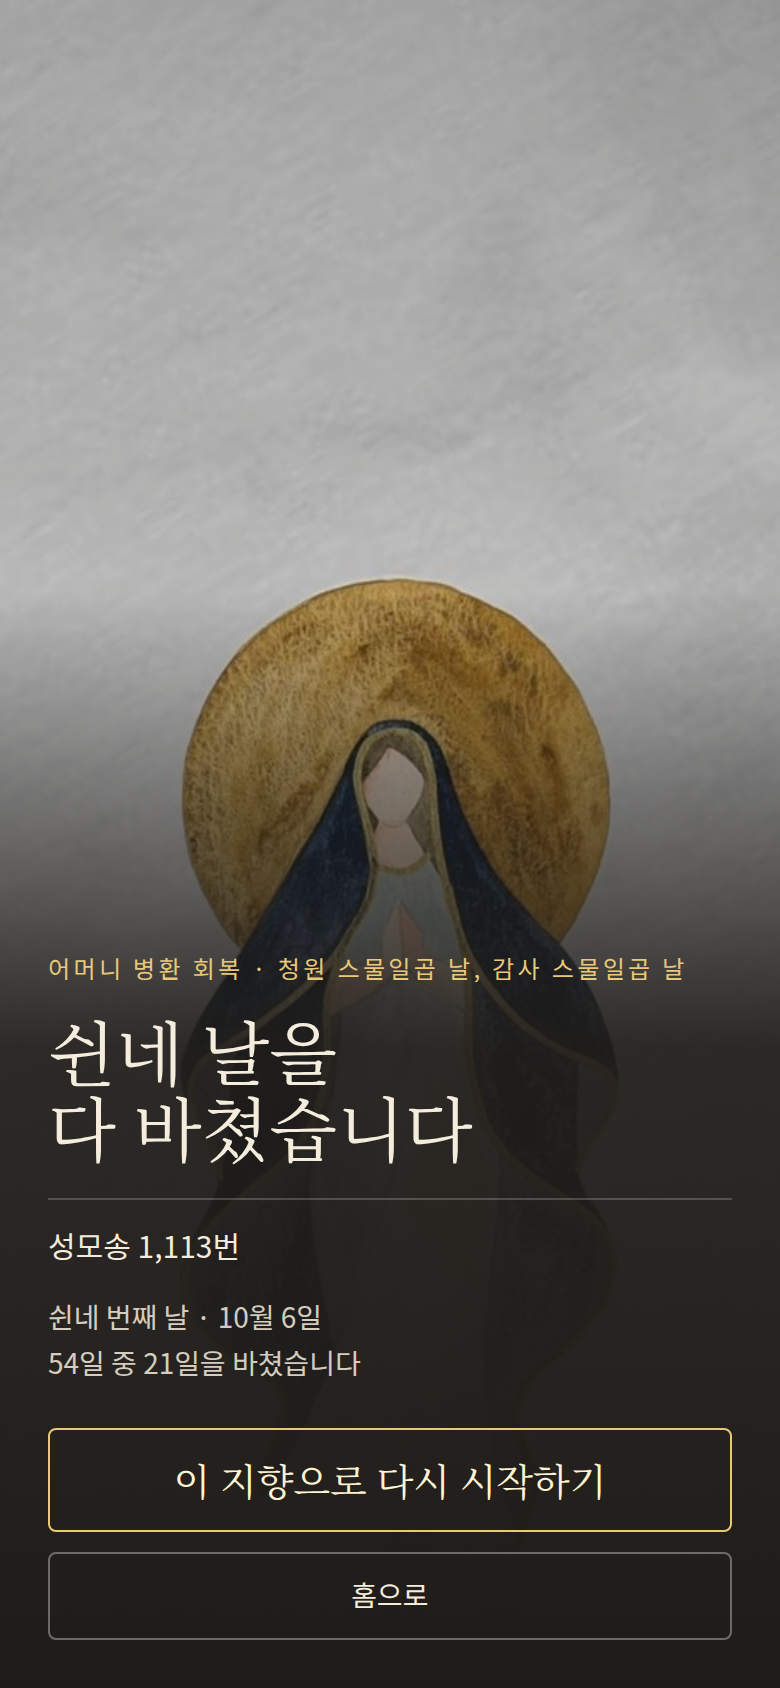
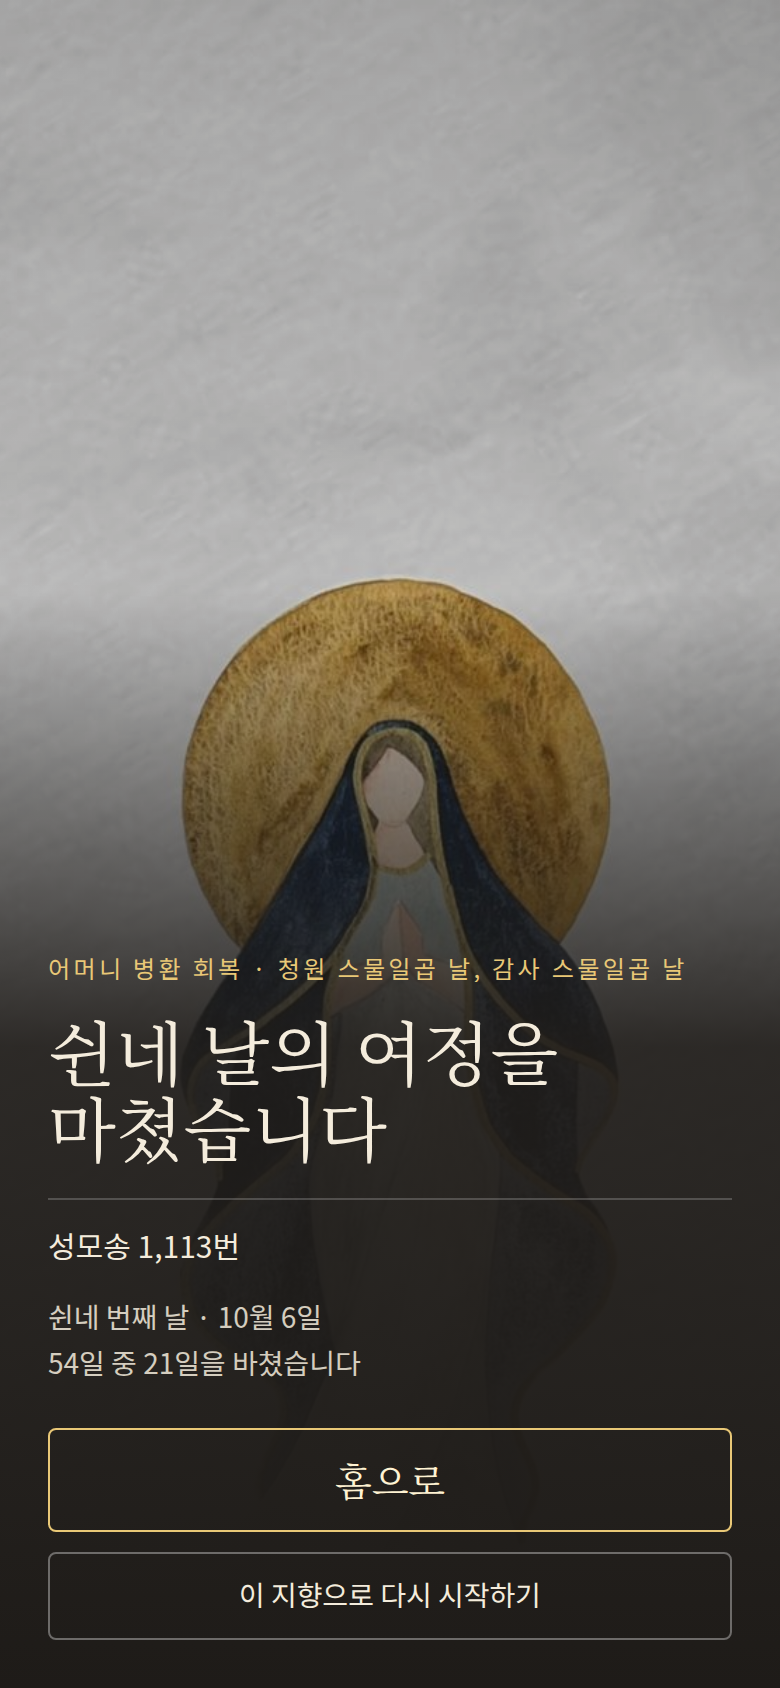
fix(w3): 여정 완주 화면이 사실과 어긋나던 두 자리를 바로잡는다
KimDesigner 검수가 잡은 것 둘이다.

1. 큰 제목이 사실이 아니었다. `쉰네 날을 다 바쳤습니다` 는 하루라도
   거른 사람에게 참이 아닌데, FR-35 가 못 바친 날을 뒤로 밀지 않기로
   했으므로 거르는 사람이 오히려 보통이다. 실제로 한 화면에 그 문장과
   `54일 중 21일을 바쳤습니다` 가 나란히 떴다.

   뿌리는 구현이 아니라 요구사항 문서에 있었다 — 06-screen-spec 화면
   C′ 의 표가 머리 문구를 `{N}일을 다 바쳤습니다` 로 정해 놓고, 바로
   아래 줄에서 바친 날 수를 `54일 중 51일` 처럼 적으라고 정한다. 같은
   절의 목적 한 줄("성취 축하가 아니라 마침을 확인한다")을 근거로
   `마쳤습니다` 로 고쳤다. 원문을 지우지 않고 개정 이력을 덧붙였다.

2. 단추 서열이 명세와 반대였다. `다시 시작하기` 가 주 단추가 되고
   명세가 정한 `홈으로` 가 조용한 단추로 내려가 있었으며, 그 사실이
   파일 머리글의 표에 적혀 있지 않았다. 명세대로 되돌렸다 — 화면 C′
   의 요소 표는 이탈을 `돌아가기 — 홈으로` 하나로 정했고, 같은 절의
   "명세 밖" 이 "다음 기도 예약" 을 범위 밖으로 못 박았다.

손으로 넣었던 줄바꿈도 뺐다. 글자 크기를 키우면 자동 줄바꿈과 겹쳐
어색하게 갈리는 자리였고, 이 화면의 제목은 이미 한국어 줄바꿈 규칙을
갖고 있다.

e2e 가 옛 문구를 붙들고 있어 함께 고쳤다. 57개 전부 통과한다.

Claude-Session: https://claude.ai/code/session_014qdPzhHB5fbdkiJDXGXtXW

diff --git a/app/all-done.tsx b/app/all-done.tsx
@@ -21,17 +21,35 @@
  * `app/day-done.tsx` 와 같은 토큰(`worldDoneType` · `onScrim`)에서 가져오고, 담는 내용만
  * 하루가 아니라 여정 전체의 것으로 바꿨다. 새 값을 지어내지 않은 것이 요점이다.
  *
- * ── 시안(하루 완주)과 다르게 한 자리 넷 ──────────────────────────────────────
+ * ── 시안(하루 완주)과 다르게 한 자리 여섯 ────────────────────────────────────
  *
- * 1. **큰 제목이 `쉰네 날을 다 바쳤습니다` 다.** 하루 완주의 제목(`오늘의 묵주기도를
+ * 1. **큰 제목이 `쉰네 날의 여정을 마쳤습니다` 다.** 하루 완주의 제목(`오늘의 묵주기도를
  *    마쳤습니다`)은 하루를 말하는 글이라, 여정의 끝에 그대로 쓰면 무엇이 끝났는지가
  *    사라진다. 날의 수를 우리말 셈으로 적는 것은 옛 화면에서 그대로 가져왔다.
+ *
+ *    **처음에는 `쉰네 날을 다 바쳤습니다` 였다. 고친 이유를 적어 둔다 (2026-09-18).**
+ *    그 문장은 06-screen-spec 화면 C′ 가 정한 문구(`{N}일을 다 바쳤습니다`)를 그대로
+ *    옮긴 것이었는데, **요구사항 문서 자신이 모순이었다** — 같은 표가 바로 아래 줄에서
+ *    바친 날 수를 `54일 중 51일` 처럼 적으라며 "빈 날을 숨기지 않고 벌하지도 않는다"고
+ *    정한다. 그래서 한 화면에 `쉰네 날을 다 바쳤습니다` 와 `54일 중 21일을 바쳤습니다`
+ *    가 나란히 떴다. 하루라도 거른 사람에게 제목이 사실이 아닌데, FR-35 가 못 바친 날을
+ *    뒤로 밀지 않기로 했으므로 **거르는 사람이 오히려 보통이다.** 같은 절의 목적 한 줄이
+ *    답을 갖고 있다 — "성취 축하가 아니라 **마침**을 확인한다." `마쳤습니다` 는 다 바친
+ *    사람에게도 참이고 거른 사람에게도 참이며, 몇 날을 바쳤는지는 아래 줄이 이미 말한다.
+ *    요구사항 문서는 원문을 지우지 않고 개정 이력을 덧붙여 고쳤다.
+ *
  * 2. **`이 성화 고정하기` 단추가 없다.** 그 단추는 "오늘 본 그림을 앞으로도 보겠다"는 뜻인데,
  *    이 화면 다음에 오는 것은 오늘이 아니라 **다음 여정**이다. 대신 그 자리에 옛 화면의
- *    `이 지향으로 다시 시작하기` 를 둔다 — 여정이 끝난 사람이 가장 자주 하는 다음 일이다.
+ *    `이 지향으로 다시 시작하기` 를 두었다.
  * 3. **`이 지향으로 다시 시작하기` 가 여정 화면으로 간다.** 그전에는 옛 `새 기도` 화면으로
  *    갔는데, W3 이 여정을 만드는 자리를 여정 화면 하나로 모았다(`docs/plan/w3-work-order.md`
  *    §1-2). 바람은 주소에 실어 보내 그 화면의 입력칸에 미리 적혀 있게 한다.
+ * 3-2. **그 단추는 조용한 둘째 자리에 있고, 주 단추는 `홈으로` 다.** 한때 서열이 반대였다 —
+ *    `다시 시작하기` 가 주 단추(52px · 강조색 테)가 되고 `홈으로` 가 조용한 단추로
+ *    내려가 있었고, **그 사실이 이 표에 적혀 있지 않았다**(2026-09-18 KimDesigner 검수가
+ *    잡았다). 명세대로 되돌렸다 — 06-screen-spec 화면 C′ 의 요소 표는 이 화면의 이탈을
+ *    `돌아가기 — 홈으로` 하나로 정했고, 같은 절의 "명세 밖"이 "다음 기도 예약"을 범위
+ *    밖으로 못 박았으며, 하루 완주 화면도 `홈으로` 가 주 단추다.
  * 4. **못 바친 날을 뒤로 밀어 채웠다는 말을 하지 않는다.** v5 가 `못 바친 날은 뒤로 밀려
  *    채워졌습니다` 라고 적었는데 이 앱은 그렇게 하지 않는다 — FR-35 가 "하루를 건너뛰어도
  *    며칠째는 흘러가고 그날 칸은 비어 있는 채로 남는다"로 정했기 때문이다. 없는 일을 말하는
@@ -143,7 +161,7 @@ export default function AllDoneScreen() {
         </Text>
 
         <Text style={[styles.title, titleSize]} testID="all-done-title">
-          {nativeCountKo(length)} 날을{'\n'}다 바쳤습니다
+          {nativeCountKo(length)} 날의 여정을 마쳤습니다
         </Text>
 
         {/*
@@ -173,8 +191,23 @@ export default function AllDoneScreen() {
         </View>
 
         <View style={styles.buttons}>
+          {/*
+            `홈으로` 가 주 단추다. 06-screen-spec 화면 C′ 의 요소 표는 이 화면의 이탈을
+            `돌아가기 — 홈으로` 하나로 정해 두었고, 하루 완주 화면(`app/day-done.tsx`)도
+            같은 서열이다. 한때 `다시 시작하기` 가 주 단추였는데 명세대로 되돌렸다 —
+            여정을 마친 자리에서 가장 강한 말이 "다음 여정을 시작하라"가 되면, 이 화면의
+            목적("성취 축하가 아니라 마침을 조용히 확인한다")과 어긋난다.
+          */}
           <Pressable
             style={styles.primaryButton}
+            onPress={leaveToHome}
+            accessibilityRole="button"
+            testID="all-done-home"
+          >
+            <Text style={styles.primaryLabel}>{strings.toHome}</Text>
+          </Pressable>
+          <Pressable
+            style={styles.quietButton}
             /*
               여정을 만드는 자리가 W3 에서 여정 화면 하나로 모였으므로 그리로 간다
               (머리 3번). 바람을 주소에 실어 보내면 그 화면의 입력칸에 미리 적혀 있다.
@@ -187,15 +220,7 @@ export default function AllDoneScreen() {
             accessibilityRole="button"
             testID="all-done-again"
           >
-            <Text style={styles.primaryLabel}>이 지향으로 다시 시작하기</Text>
-          </Pressable>
-          <Pressable
-            style={styles.quietButton}
-            onPress={leaveToHome}
-            accessibilityRole="button"
-            testID="all-done-home"
-          >
-            <Text style={styles.quietLabel}>{strings.toHome}</Text>
+            <Text style={styles.quietLabel}>이 지향으로 다시 시작하기</Text>
           </Pressable>
         </View>
       </View>

diff --git a/docs/product/06-screen-spec.md b/docs/product/06-screen-spec.md
@@ -184,11 +184,13 @@
 
 | 요소 | 상태 | 각 상태에서 | FR |
 |---|---|---|---|
-| 머리 문구 | 항상 | `{N}일을 다 바쳤습니다` (54 또는 9) | FR-19 |
+| 머리 문구 | 항상 | `{N}일의 여정을 마쳤습니다` (54 또는 9) `[2026-09-18 개정]` | FR-19 |
 | 바람 줄 | 항상 | `{바람}을 위하여` — 첫날에 적은 그대로 | FR-19 |
 | 여정 셋 | 항상 | 첫날 · 마지막 날 · 바친 날 수(`54일 중 51일`처럼 — 빈 날을 숨기지 않고 벌하지도 않는다) | FR-35·37 |
 | 리본 | 항상 | 하루 한 칸 54칸. 빈 칸은 빈 채로 | FR-35 |
 | 돌아가기 | 기본 | 홈으로 | — |
+
+> **개정 이력 — 머리 문구 (2026-09-18, W3).** 원래 문구는 `{N}일을 다 바쳤습니다` 였다. 그런데 **이 표 자신이 모순이었다** — 바로 아래 `여정 셋` 줄이 바친 날 수를 `54일 중 51일` 처럼 적으라며 "빈 날을 숨기지 않고 벌하지도 않는다"고 정한다. 그래서 화면을 세우고 보니 한 화면에 `쉰네 날을 다 바쳤습니다` 와 `54일 중 21일을 바쳤습니다` 가 나란히 떴다. **하루라도 거른 사람에게 머리 문구가 사실이 아니고**, FR-35 가 못 바친 날을 뒤로 밀지 않기로 했으므로 거르는 사람이 오히려 보통이다. 고친 근거는 이 절의 목적 한 줄 자신이다 — "성취 축하가 아니라 **마침**을 확인한다." `마쳤습니다` 는 다 바친 사람에게도 참이고 거른 사람에게도 참이며, 몇 날을 바쳤는지는 아래 줄이 이미 말한다. 사유는 `decisions.md` 의 결정 큐에도 적었다.
 
 **명세 밖**: 공유 카드(SNS), 다음 기도 예약, 연속 기록, 조원 이름별 완료 표.
 
